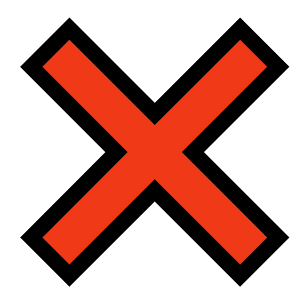
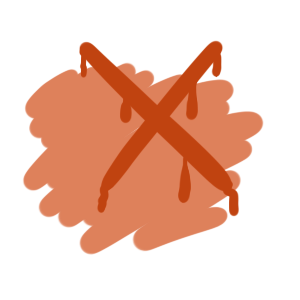
Add new graphics

diff --git a/Game1/UI.Scenes/GameFourScene.cs b/Game1/UI.Scenes/GameFourScene.cs
@@ -228,53 +228,41 @@ namespace Maquina.UI.Scenes
                 }},
                 { "Controller-Bandage", new MenuButton("controller-x")
                 {
-                    Text = "Bandage (X)",
-                    //Graphic = Game.Content.Load<Texture2D>("controllerBtn"),
-                    SpriteType = SpriteType.Static,
+                    Tooltip = "Bandage (X)",
+                    Graphic = Game.Content.Load<Texture2D>("aid-em/bandage"),
+                    SpriteType = SpriteType.None,
                     ControlAlignment = ControlAlignment.Fixed,
                     Location = new Vector2(80,460),
-                    Font = Fonts["default_m"],
-                    Columns = 3,
-                    Rows = 1,
                     LayerDepth = 0.1f,
                     LeftClickAction = () => AddSubtractBrickHit(ControllerKeys.Bandage)
                 }},
                 { "Controller-Stitch", new MenuButton("controller-a")
                 {
-                    Text = "Stitch (A)",
-                    //Graphic = Game.Content.Load<Texture2D>("controllerBtn"),
-                    SpriteType = SpriteType.Static,
+                    Tooltip = "Stitch (A)",
+                    Graphic = Game.Content.Load<Texture2D>("aid-em/stitch"),
+                    SpriteType = SpriteType.None,
                     ControlAlignment = ControlAlignment.Fixed,
                     Location = new Vector2(150, 530),
-                    Font = Fonts["default_m"],
-                    Columns = 3,
-                    Rows = 1,
                     LayerDepth = 0.1f,
                     LeftClickAction = () => AddSubtractBrickHit(ControllerKeys.Stitch)
                 }},
                 { "Controller-Medicine", new MenuButton("controller-s")
                 {
-                    Text = "Medicine (S)",
-                    //Graphic = Game.Content.Load<Texture2D>("controllerBtn"),
-                    SpriteType = SpriteType.Static,
+                    Tooltip = "Medicine (S)",
+                    Graphic = Game.Content.Load<Texture2D>("aid-em/medicine"),
+                    SpriteType = SpriteType.None,
                     ControlAlignment = ControlAlignment.Fixed,
                     Location = new Vector2(730,460),
-                    Font = Fonts["default_m"],
-                    Columns = 3,
-                    Rows = 1,
                     LayerDepth = 0.1f,
                     LeftClickAction = () => AddSubtractBrickHit(ControllerKeys.Medicine)
                 }},
                 { "Controller-CPR", new MenuButton("controller-o")
                 {
-                    Text = "CPR (O)",
-                    //Graphic = Game.Content.Load<Texture2D>("controllerBtn"),
-                    SpriteType = SpriteType.Static,
+                    Tooltip = "CPR (O)",
+                    Graphic = Game.Content.Load<Texture2D>("aid-em/cpr"),
+                    SpriteType = SpriteType.None,
                     ControlAlignment = ControlAlignment.Fixed,
                     Location = new Vector2(650, 550),
-                    Font = Fonts["default_m"],
-                    Columns = 3,
-                    Rows = 1,
                     LayerDepth = 0.1f,
                     LeftClickAction = () => AddSubtractBrickHit(ControllerKeys.CPR)
                 }},
